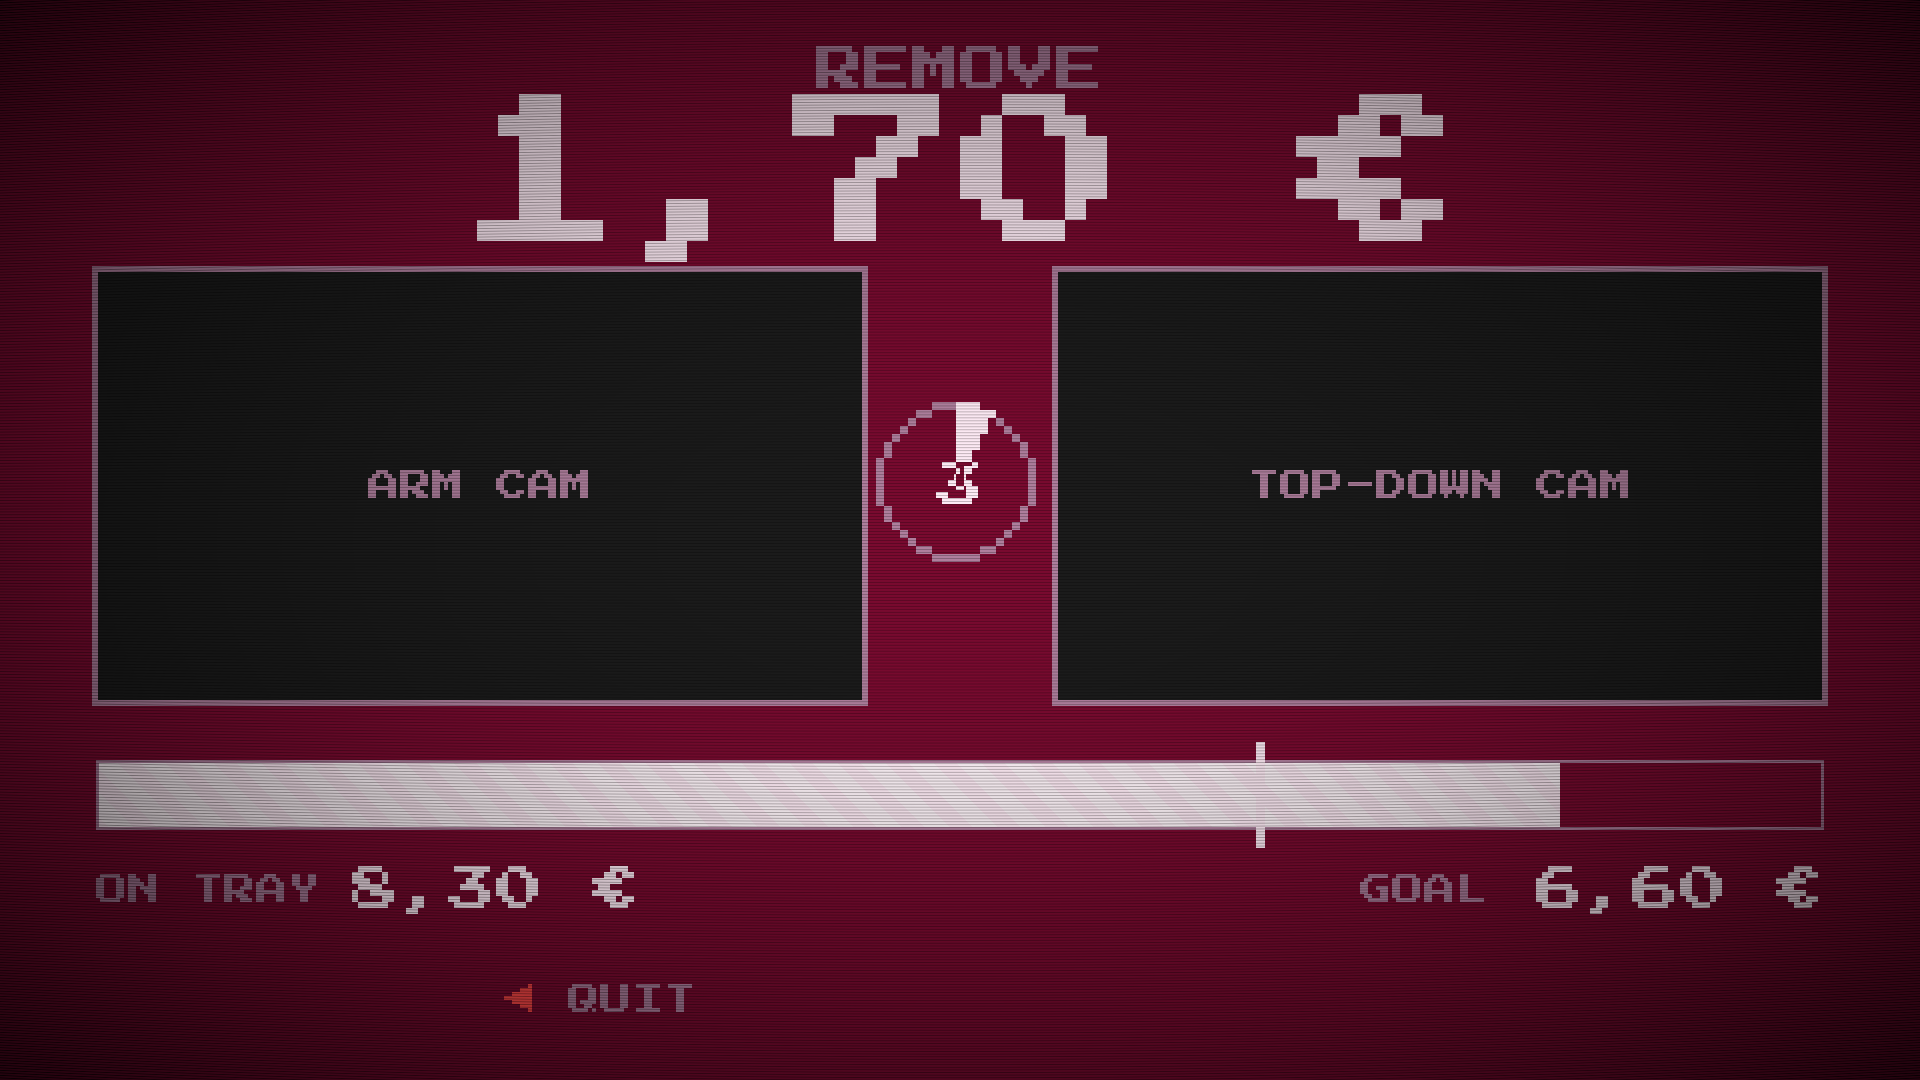
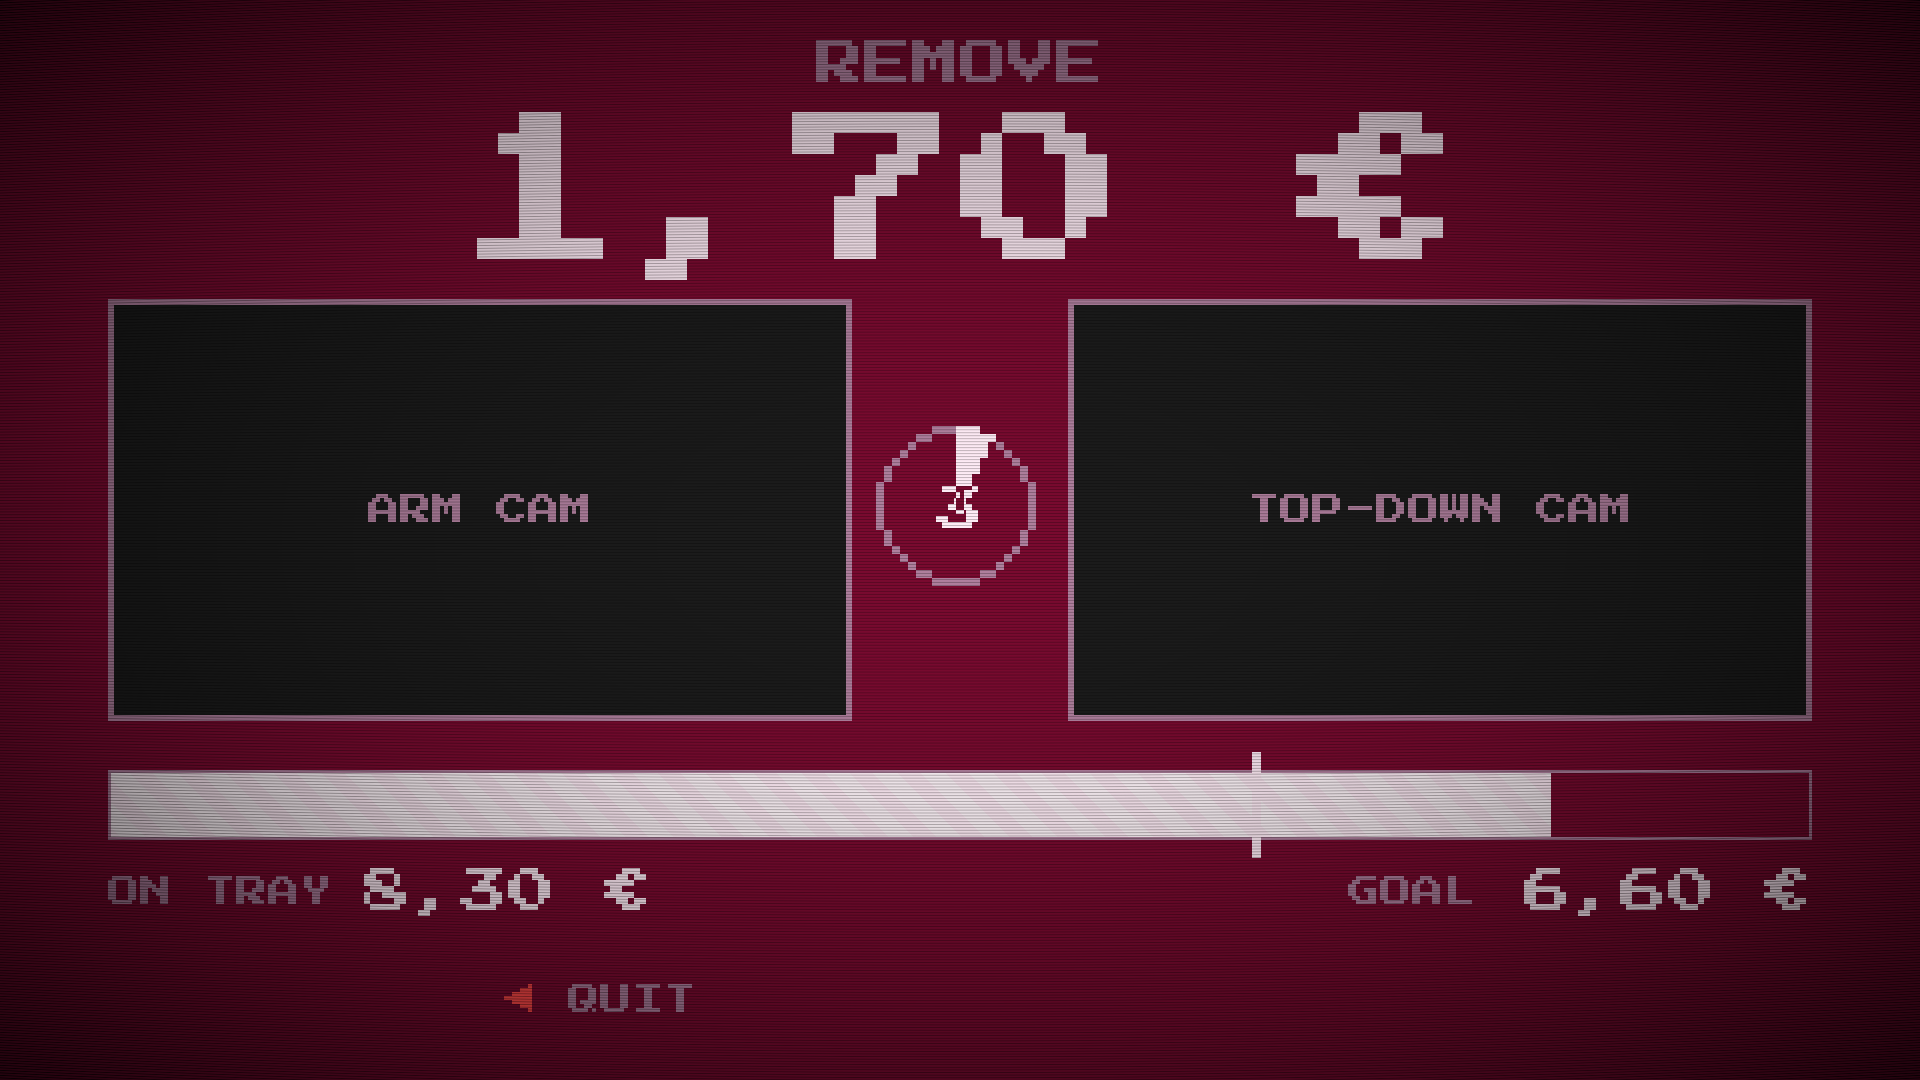
fix: game layout — camera panes 736x414, more room for pie and instruction

diff --git a/game/scenes.py b/game/scenes.py
@@ -401,10 +401,10 @@ class GameScene(SceneBase):
 
     # The bar, absolute coordinates like everything else in this file.
     # Below the cameras and exactly as wide as both panes together.
-    BAR   = pygame.Rect(96, 760, 1728, 70)
+    BAR   = pygame.Rect(108, 770, 1704, 70)
     # Countdown pie in the gap between the panes, see pie().
     PIE   = pygame.Rect(0, 0, 168, 168)
-    PIE.center = (960, 486)
+    PIE.center = (960, 510)
     # Scale of the bar: the largest possible target, not the sum of all ten
     # cupcakes. As long as the tray was pre-loaded and rearranged, "everything
     # there is at all" was the right length -- the total could wander there.
@@ -419,7 +419,7 @@ class GameScene(SceneBase):
     # is exactly the right statement. The exact number stands below it anyway.
     SCALE = GAP_MAX
     GOAL_W, GOAL_OVER = 9, 18   # width and overhang of the goal line
-    LEGEND_Y = 890
+    LEGEND_Y = 892
 
     def __init__(self, ctx):
         super().__init__(ctx)
@@ -475,7 +475,7 @@ class GameScene(SceneBase):
         # is needed.
         self.hit = self.hit + dt if self.total == self.target else 0.0
         if self.hit > 0:
-            self.fx = self.fx or Sprinkles(960, 178)    # pops from PERFECT
+            self.fx = self.fx or Sprinkles(960, 196)    # pops from PERFECT
             self.fx.update(dt)
         else:
             self.fx = None
@@ -613,8 +613,8 @@ class GameScene(SceneBase):
             # because that's the only quantity the visitor is looking at
             # during the round.
             label, big = ("ADD" if diff > 0 else "REMOVE"), euro(abs(diff))
-        draw(screen, f["small"], label, 960, 70, GREY)
-        draw(screen, f["big"], big, 960, 178, self.acc())
+        draw(screen, f["small"], label, 960, 64, GREY)
+        draw(screen, f["big"], big, 960, 196, self.acc())
         frac = min(1.0, max(0.0, self.left / ROUND_SECONDS))
         screen.blit(pie(math.ceil(frac * PIE_STEPS), str(max(0, int(self.left) + 1)),
                         f["small"], self.acc()), self.PIE)

diff --git a/game/config.py b/game/config.py
@@ -279,12 +279,13 @@ CAMERA        = os.environ.get("PNP_CAMERA", "1") != "0"   # 0 = FakeDetector
 # NOT (0, 1): video1 and video3 are metadata nodes and deliver no image.
 CAM_INDEXES   = (0, 0) if MAC else (0, 2)
 CAM_SIZE      = (1280, 720)
-# 768 x 432 is exactly 16:9 (768 * 9/16 = 432) — a different ratio distorts.
-# Twice the area of the earlier 544 x 306: the player steers the arm by these
-# images, so they get priority. The instruction sits above, the bar below,
-# the timer pie in the 192 px gap between the two.
-CAM_VIEW      = (768, 432)
-CAM_POS       = ((480, 486), (1440, 486))   # centers, left is the arm
+# 736 x 414 is exactly 16:9 (736 * 9/16 = 414) — a different ratio distorts.
+# 1.8 times the area of the earlier 544 x 306: the player steers the arm by
+# these images, so they get priority. The instruction sits above, the bar
+# below, the timer pie in the 224 px gap between the two. 768 x 432 left the
+# pie 8 px from the frames and the instruction no room to its label.
+CAM_VIEW      = (736, 414)
+CAM_POS       = ((480, 510), (1440, 510))   # centers, left is the arm
 MARKER_HOLD   = 0.5    # hysteresis: marker keeps counting while occluded for less than this
 DETECT_HZ     = 15     # detection rate, decoupled from the 60 FPS
 # Detection window of the top-down camera, as fractions (x, y, width, height).

diff --git a/tools/shots.py b/tools/shots.py
@@ -104,7 +104,7 @@ def shots(out):
         ("5-game-warning", game, dict(left=WARN_SECONDS * 0.4)),
         ("6-game-perfect", game, dict(left=ROUND_SECONDS * 0.7,
                                       total=game.target, hit=1.0,
-                                      fx=burst(960, 178, 0.25))),
+                                      fx=burst(960, 196, 0.25))),
         # done=True: the screenshot shows the final state, not the first
         # tenth of a second of the count-up.
         ("7-score",        scenes.DisplayScoreScene(ctx, done),
